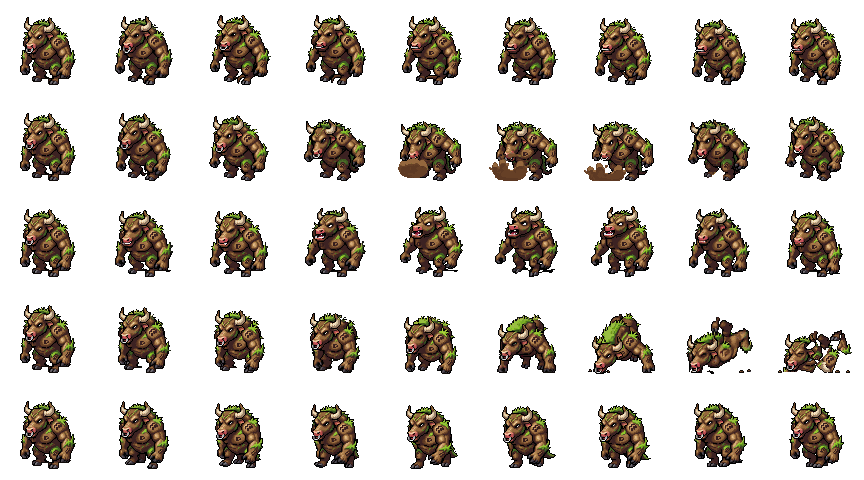
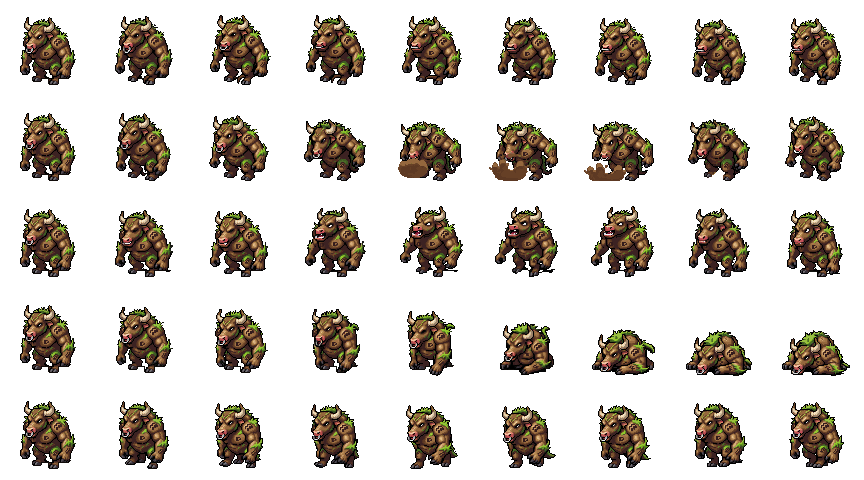
Mud-Track Minotaur: knockdown death instead of a shattered heap
After browser review the hand-drawn end frame (his body as cracked mud
chunks) read as an object breaking apart, not a horned humanoid being
knocked out. The death is now his first-generation take: knees buckle
(3-4), he collapses forward and lies flat on his face in one piece
(5-8). One new generation pair (death-v5) only sat him down, so no
further re-roll or end frame. minotaur-heap.cjs is kept, marked unused.

diff --git a/docs/pixellab-style.md b/docs/pixellab-style.md
@@ -474,8 +474,7 @@ to a hand-drawn end frame. build-boss-sheet.cjs now takes a per-boss
 ### Mud-Track Minotaur record
 
 - Character `46a04b65-be1f-4e65-be04-0689bb42db67`; 2 generations each:
-  5 + 5 (idle-v2, attack-v2, death-v2, death-v3, and death-v4 into the
-  end frame) = 20 generations.
+  5 + 6 (idle-v2, attack-v2, death-v2 … death-v5) = 22 generations.
 - Sheet: assets/mud-track-minotaur-pixellab.png (96px cells). Idle 61×70.
 - NO PUDDLE: the rotation stands in a wide mud puddle — on the flat
   ground line that reads exactly like the removed ground shadows, and v3
@@ -497,27 +496,31 @@ to a hand-drawn end frame. build-boss-sheet.cjs now takes a per-boss
   ground row). A modest butt rather than a charge; frame 4's splat is a
   wide flat mud patch for one frame.
 - Hurt (first try): head snaps back, bellowing (peak 4–5).
-- Death needed the END-FRAME fallback after the two allowed re-rolls:
-  v1 (drops to its knees, topples face-down, "crumbles apart into loose
-  clods") fell into an intact mossy mound; death-v2 ("dries out and
-  cracks … shatters apart into many separate loose chunks") cracked and
-  shed chunks but stayed standing; death-v3 (the fall first, then "breaks
-  apart into big cracked chunks") sank into an intact crouch.
-  minotaur-heap.cjs builds the end frame from the start frame: the body
-  below the head cut into Voronoi chunks (cut edges inked as cracks,
-  slivers dropped), piled Tetris-style (each chunk where it rests lowest,
-  so the heap is wide and 43 px tall), the head lying in front with its
-  eye shut and the far horn snapped off and lying on the ground, a few
-  mud clods. death-v4 animates into it: he buckles and topples (4–6),
-  tumbles (7), and ends on the heap (8, exempt from speck cleanup).
-- Unused: idle, attack, death, death-v2, death-v3 stay in the PixelLab
-  character.
+- Death — REVISED after browser review: the first pass took the END-FRAME
+  fallback (death-v2 cracked but stayed standing, death-v3 sank into an
+  intact crouch; minotaur-heap.cjs piled his body as cracked mud chunks and
+  death-v4 animated into it), but a shattered heap read as an object
+  breaking apart, not a horned humanoid being knocked out. The brief is
+  now a knockdown that lands roughly intact (like the Troll's). death-v5
+  ("knocked out … topples over backward … crashing flat onto its back …
+  its whole body in one piece") only sat down, slumped. The FIRST
+  generation (death: "staggers, drops to its knees, then topples forward
+  and crashes face-down flat onto the ground …") is exactly that — knees
+  buckle (3–4), he collapses forward and lies flat on his face in one
+  piece (5–8, lifted 2–3 px onto the line) — so it's the one used, no
+  third re-roll and no end frame. Lesson: "crumble / shatter" wording
+  suits objects (the Behemoth's rocks); a humanoid boss wants a plain
+  knockdown.
+- Unused: idle, attack, death-v2 … death-v5 stay in the PixelLab
+  character (death-v4 = the heap).
 
 ### Mid-tier pass totals
 
-52 generations (Ooze 16, Troll 16, Minotaur 20; balance 1753 → 1701).
+52 generations (Ooze 16, Troll 16, Minotaur 20; balance 1753 → 1701),
++2 for the Minotaur's revised death (death-v5; 1701 → 1699).
 Re-rolls: Ooze attack, hurt ×2; Troll attack, hurt, death; Minotaur
-idle, attack, death ×2; one end-frame fallback (the Minotaur's death).
+idle, attack, death ×3. The Minotaur's end-frame fallback was replaced
+after review by his first-generation knockdown.
 Hand fixes: the Minotaur's puddle (start frame), the Ooze's last death
 frame (held frame 7).
 

diff --git a/CLAUDE.md b/CLAUDE.md
@@ -676,8 +676,9 @@ TOOLING — PixelLab MCP (pixel-art generation, for the future sprite redo):
   Ooze (104px cells; attack contact 8 at 16 fps; death holds frame 7),
   Tupperware Troll (104px; contact 5), Mud-Track Minotaur (96px; contact
   5; animated from a PUDDLE-FREE start frame, minotaur-start.cjs — the
-  rotation's mud puddle read as a ground shadow; death animates into a
-  hand-drawn heap, minotaur-heap.cjs) — DONE, all grounded, no airborne
+  rotation's mud puddle read as a ground shadow; death is a knockdown in
+  one piece — a shattered heap, minotaur-heap.cjs, was rejected: humanoid
+  bosses fall, objects shatter) — DONE, all grounded, no airborne
   frames. build-boss-sheet.cjs gained `work`, a row's `frames` and
   `align`. Scatter-Brick Serpent: still unanimated (its death needs the
   hand-guided end-frame treatment). Mid bosses are seeded for new
